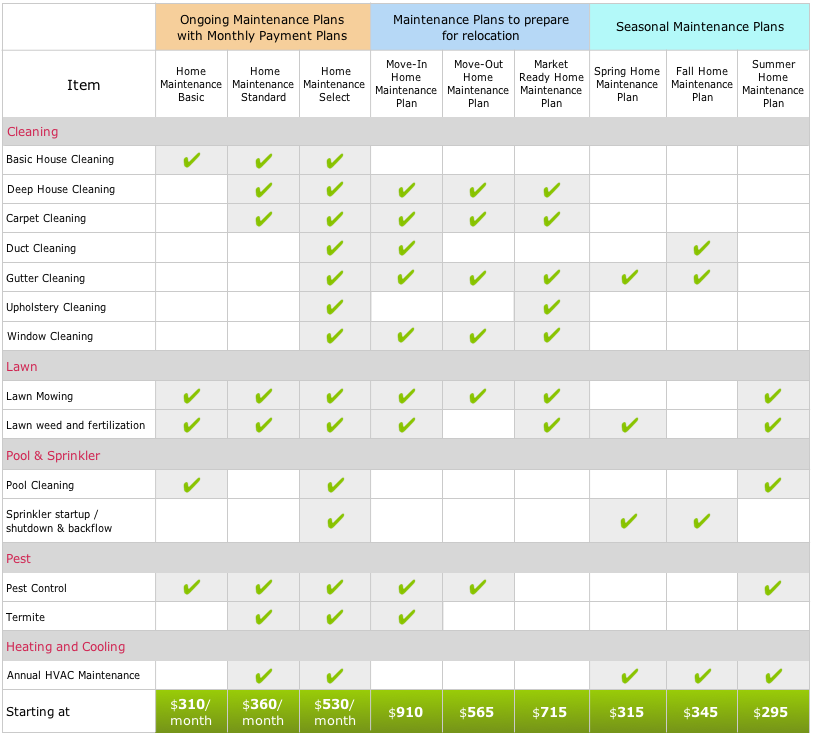
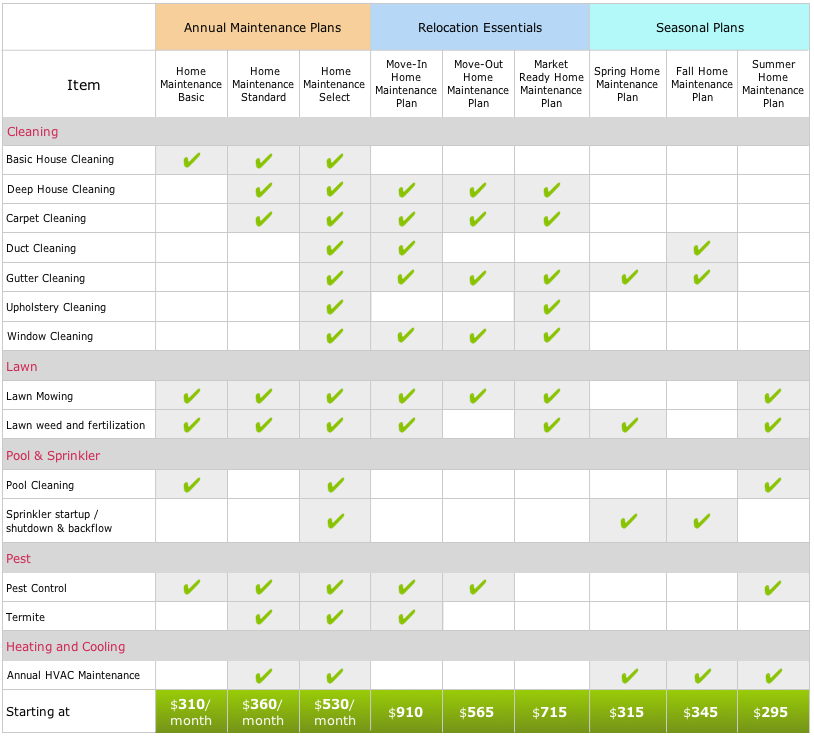
Adjusted email-table.

Changed region(s): [[0.215, 0.0, 0.43, 0.0625], [0.4914, 0.0, 0.7064, 0.0625], [0.7678, 0.0312, 0.9521, 0.0625]]

diff --git a/renshaw-email-letter.html b/renshaw-email-letter.html
@@ -1170,11 +1170,11 @@
                         <table border="0" cellpadding="0" cellspacing="0" width="100%" id="templateBody">
                           <tbody><tr> 
                             <td align="center" valign="top" class="bodyTitleContent" style="padding-top:20px; padding-bottom:20px;" mc:edit="body_title_content">                     
-                              <img align="none" height="70" src="http://gallery.mailchimp.com/75f96eed47bf8a86ede79d407/images/title_green.png" style="width: 810px; height: 70px; " width="810">
+                              <img align="none" height="70" src="http://gallery.mailchimp.com/75f96eed47bf8a86ede79d407/images/title_green.1.png" style="width: 810px; height: 70px; " width="810">
                             </td>                  
                           </tr>
                           <tr>
-                            <td align="center" valign="top" class="" style="padding-bottom:20px;" mc:edit="body_table"><img align="none" height="736" src="http://gallery.mailchimp.com/75f96eed47bf8a86ede79d407/images/plans_table.png" style="width: 814px; height: 736px; " width="814"> 
+                            <td align="center" valign="top" class="" style="padding-bottom:20px;" mc:edit="body_table"><img align="none" height="736" src="http://gallery.mailchimp.com/75f96eed47bf8a86ede79d407/images/plans_table.1.png" style="width: 814px; height: 736px; " width="814"> 
                             </td>   
                           </tr>
                         </tbody></table>                  

diff --git a/email-table-image.html b/email-table-image.html
@@ -508,11 +508,11 @@
                         <table border="0" cellpadding="0" cellspacing="0" width="100%" id="templateBody">
                           <tr> 
                           	<td align="center" valign="top" class="bodyTitleContent" style="padding-top:20px; padding-bottom:20px;" mc:edit="body_title_content">                     
-                            	<img align="none" height="70" src="http://gallery.mailchimp.com/75f96eed47bf8a86ede79d407/images/title_green.png" style="width: 810px; height: 70px; " width="810">
+                            	<img align="none" height="70" src="http://gallery.mailchimp.com/75f96eed47bf8a86ede79d407/images/title_green.1.png" style="width: 810px; height: 70px; " width="810">
                             </td>                  
                           </tr>
                           <tr>
-                          	<td align="center" valign="top" class="" style="padding-bottom:20px;" mc:edit="body_table"><img align="none" height="736" src="http://gallery.mailchimp.com/75f96eed47bf8a86ede79d407/images/plans_table.png" style="width: 814px; height: 736px; " width="814"> 
+                          	<td align="center" valign="top" class="" style="padding-bottom:20px;" mc:edit="body_table"><img align="none" height="736" src="http://gallery.mailchimp.com/75f96eed47bf8a86ede79d407/images/plans_table.1.png" style="width: 814px; height: 736px; " width="814"> 
                             </td>   
                           </tr>
                         </table>                  
